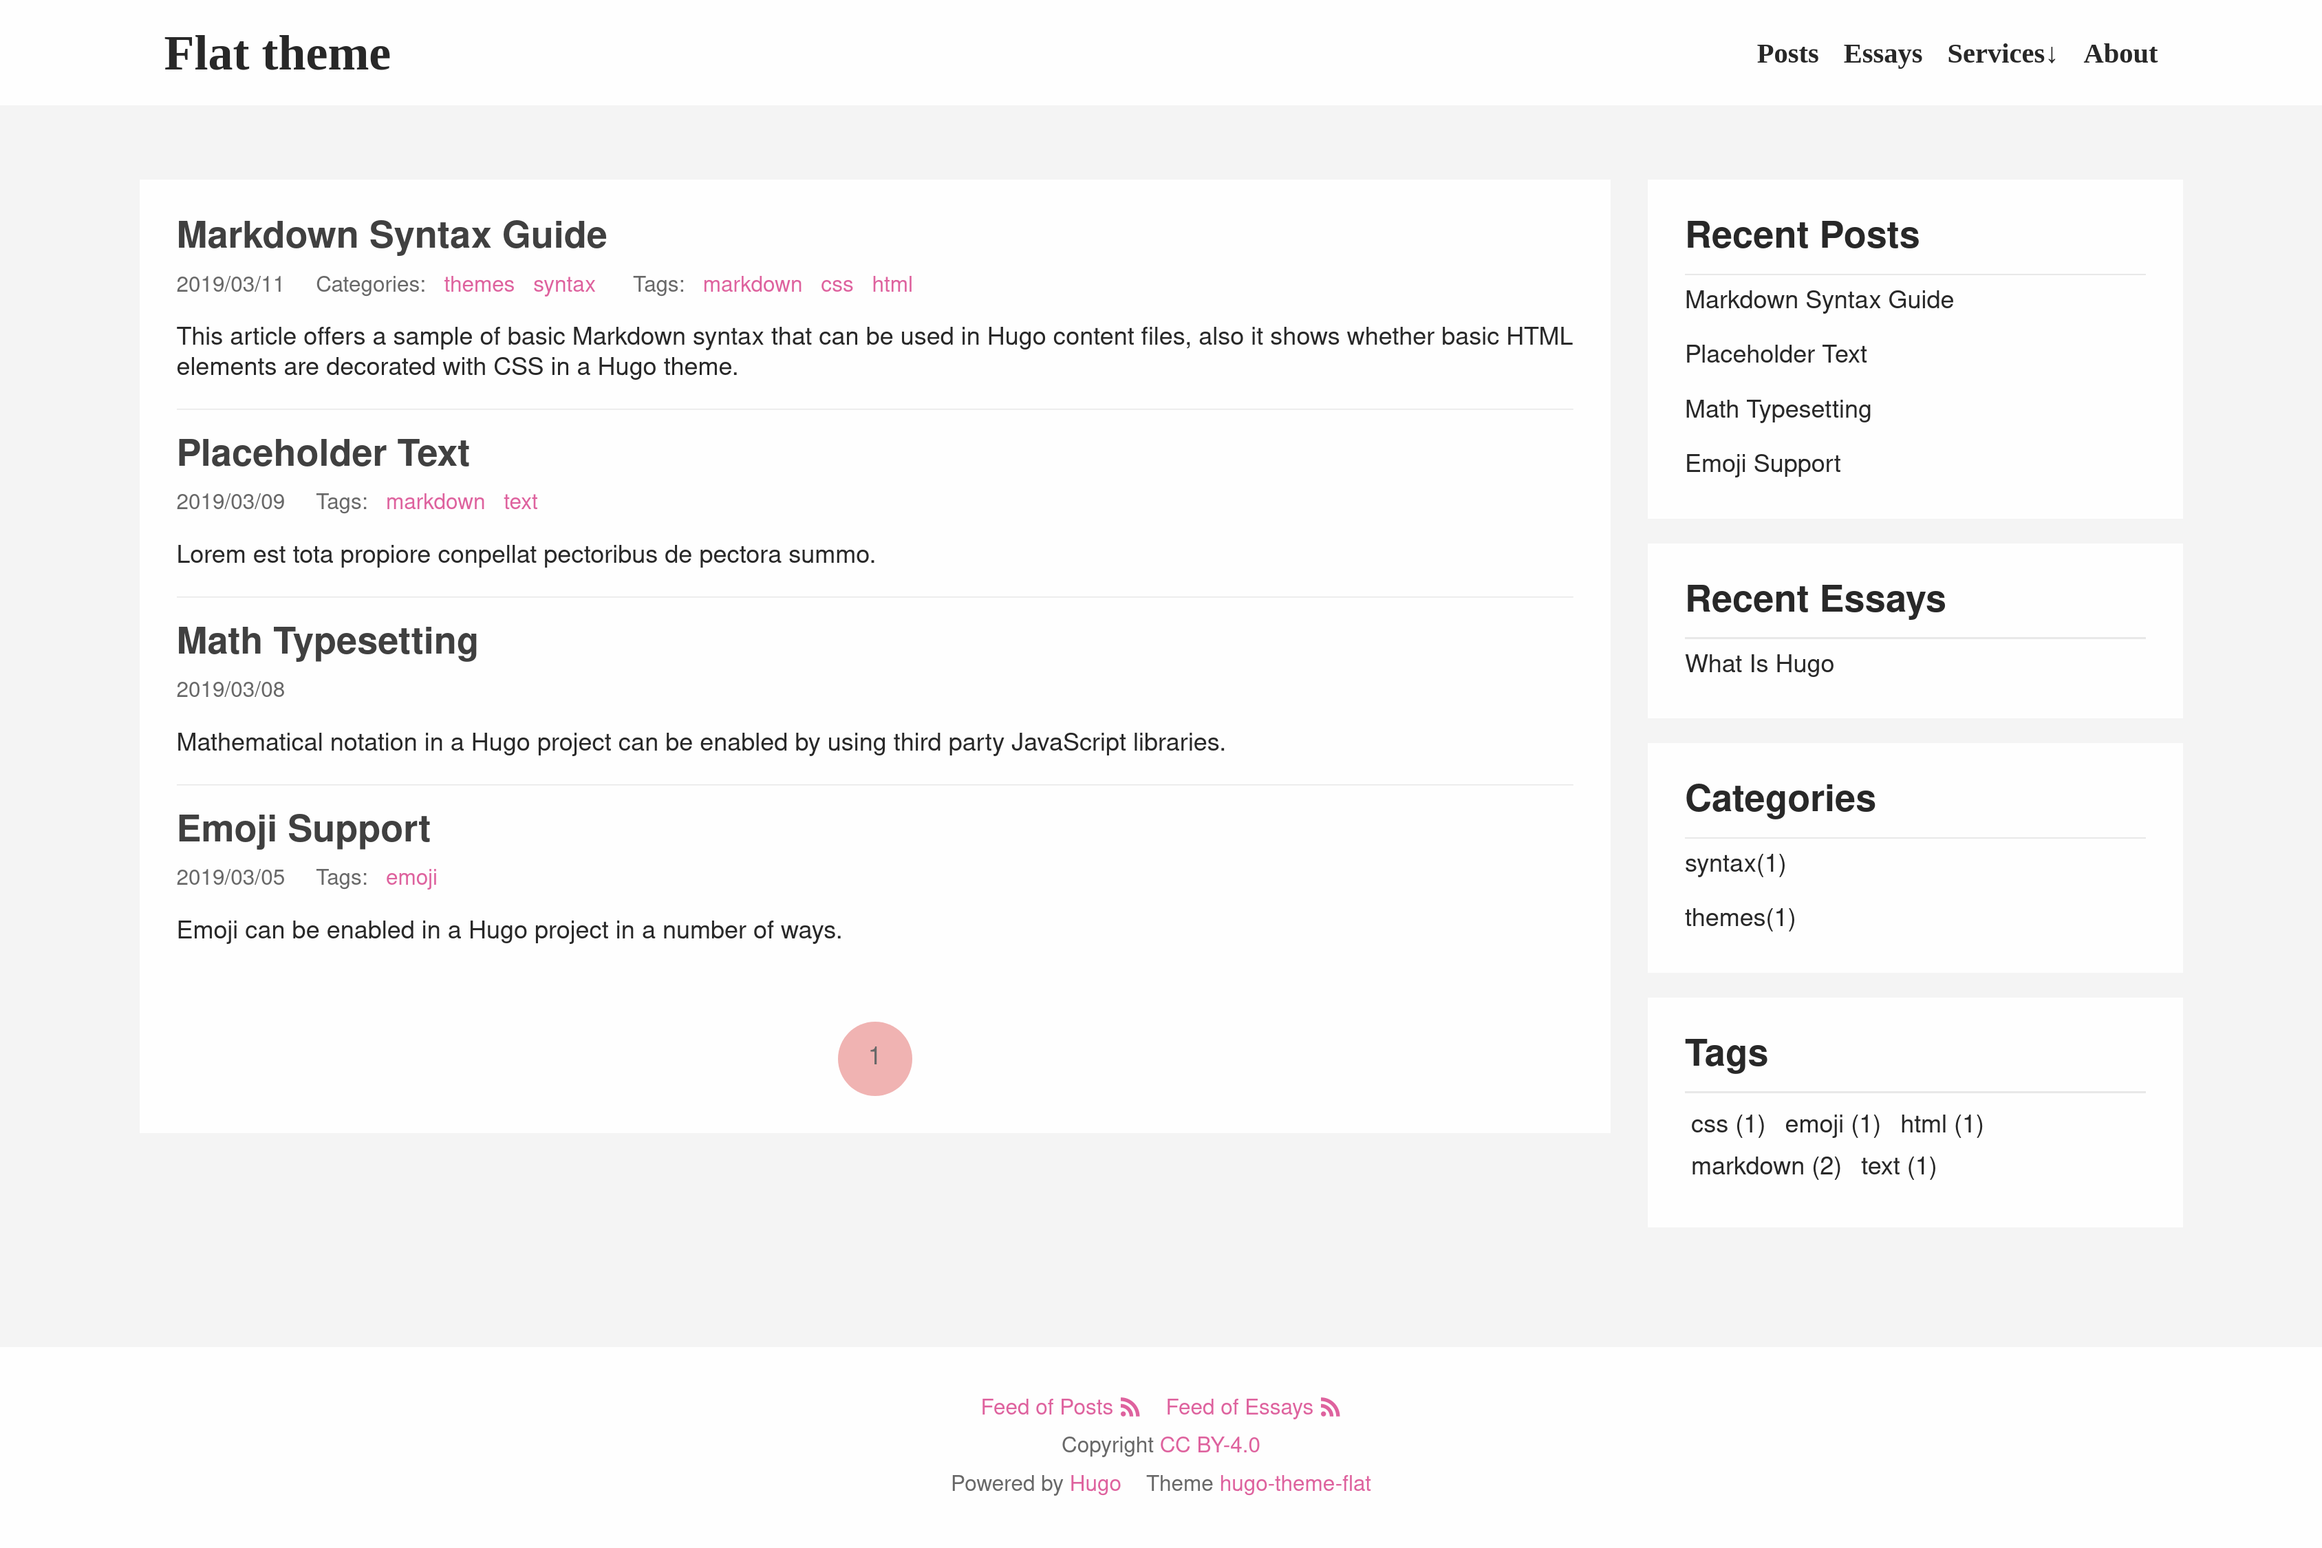
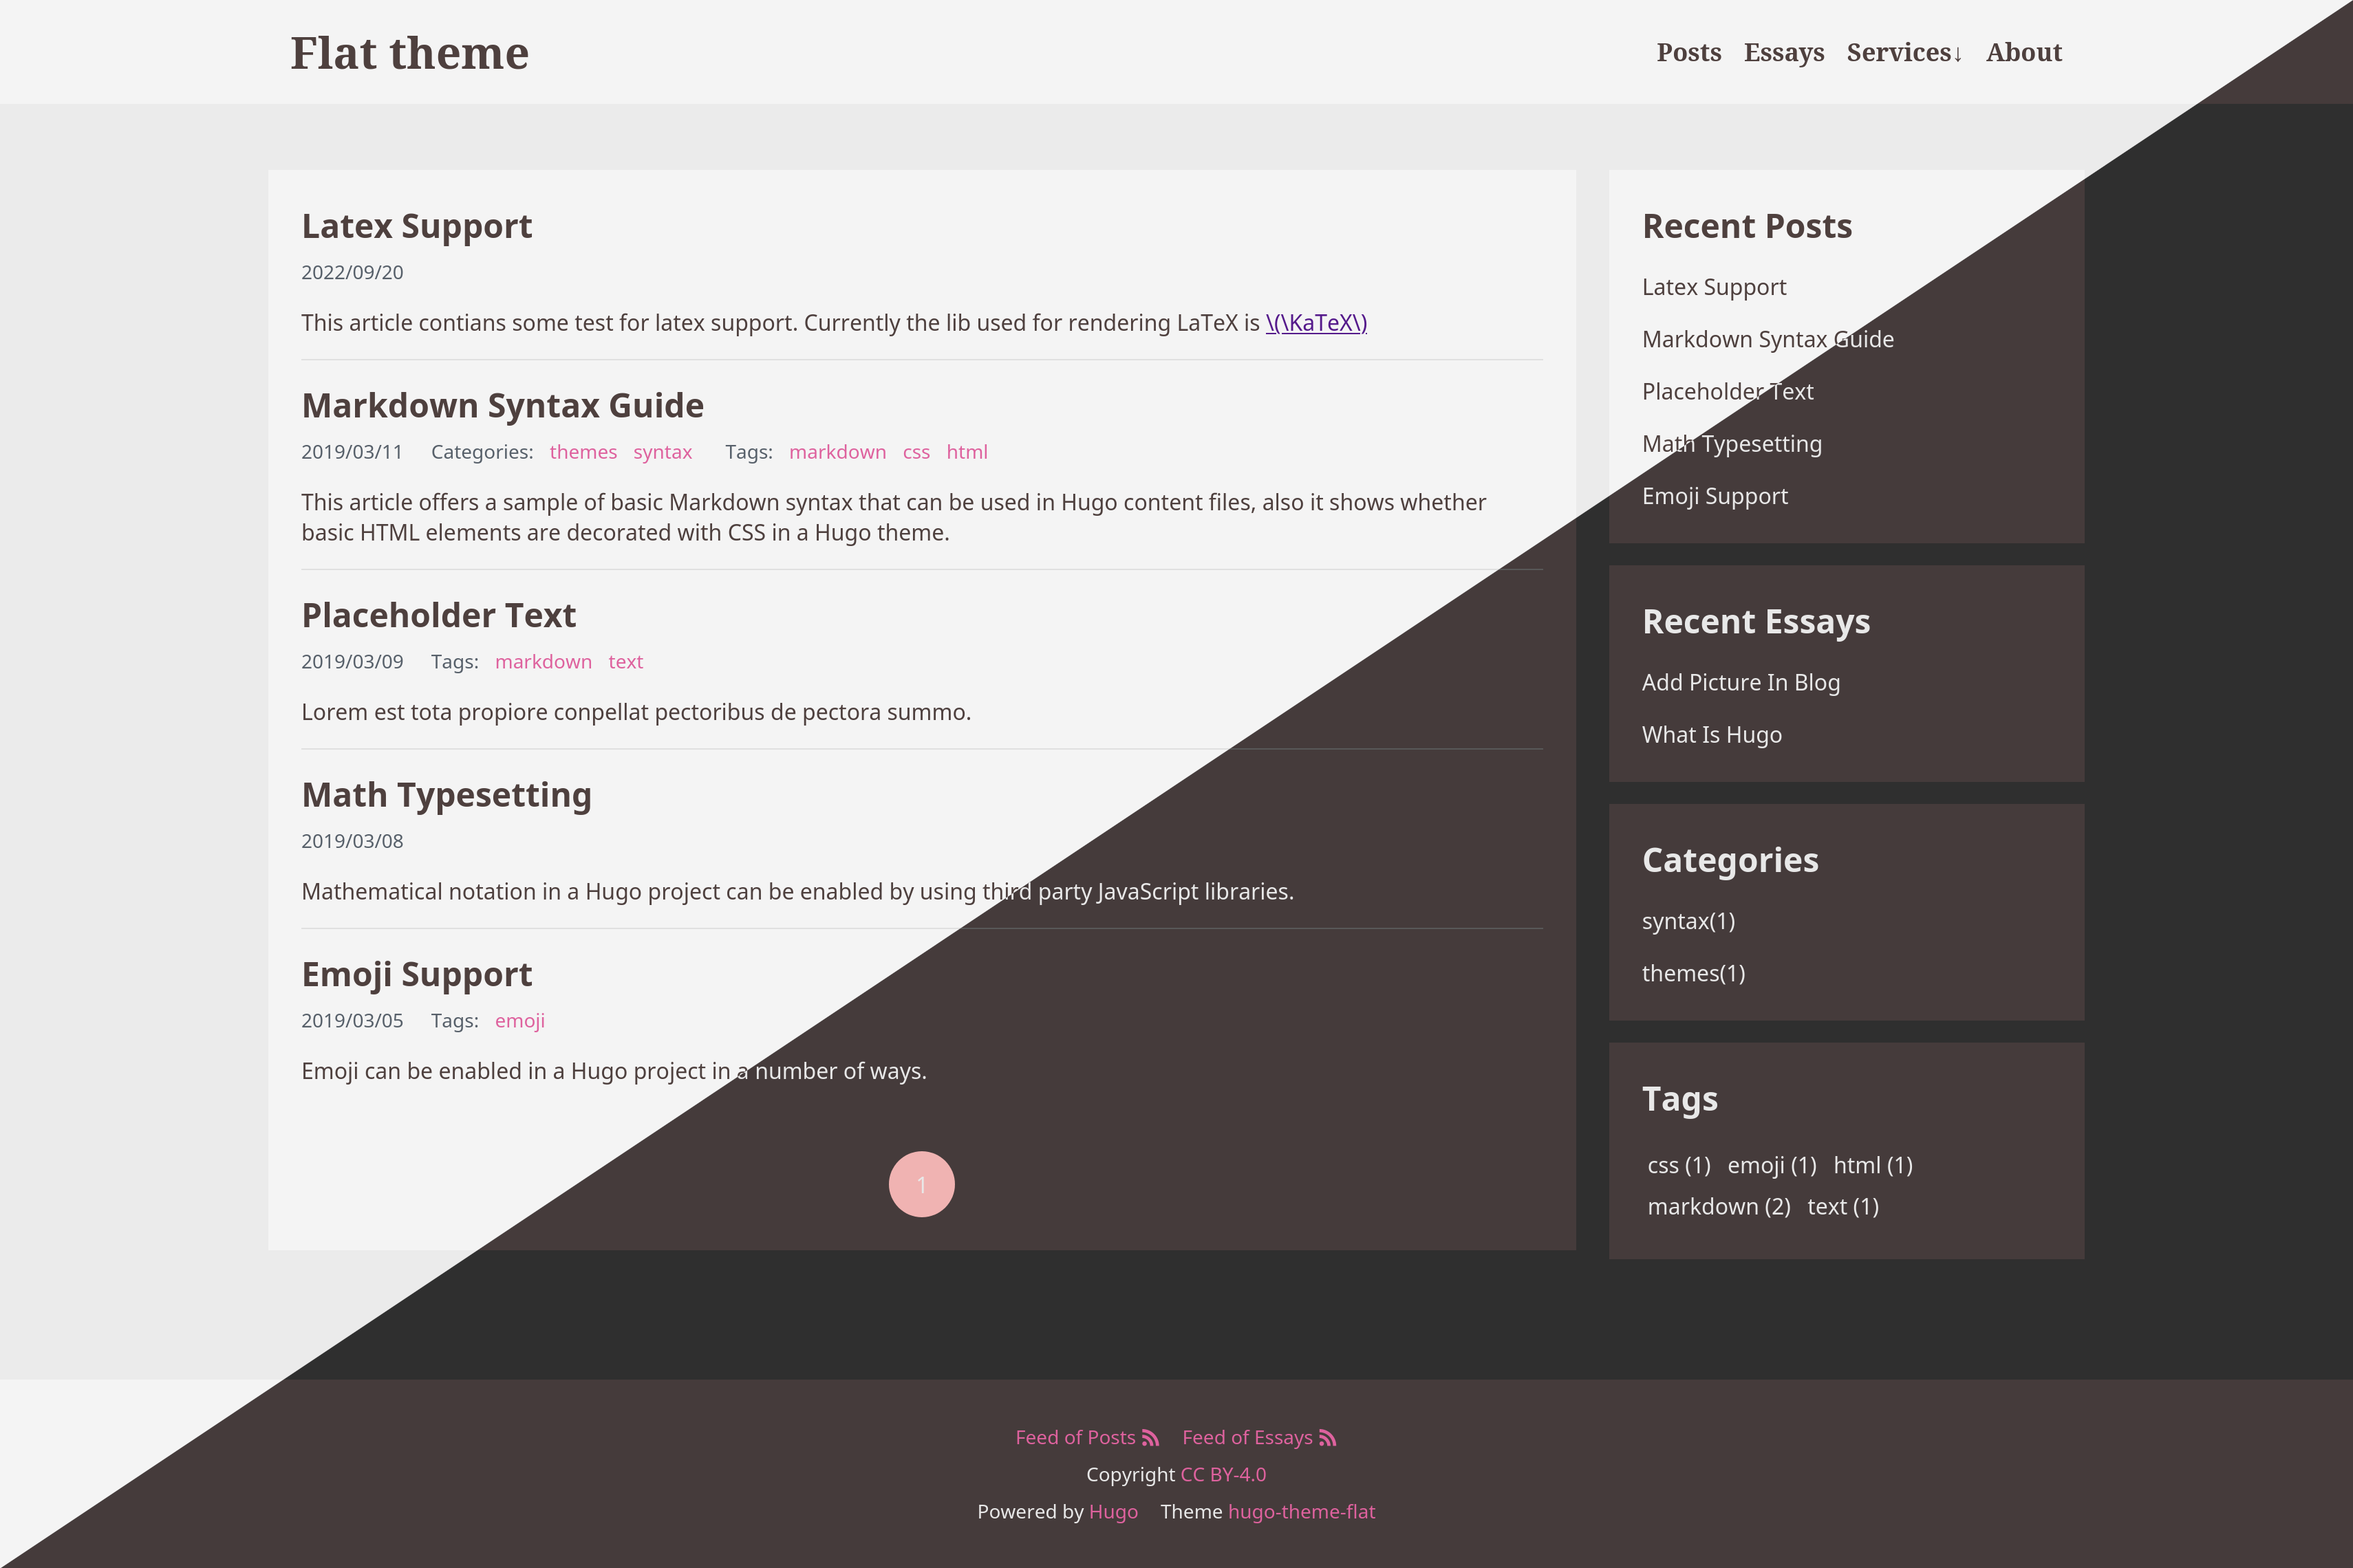
update READEME and images

diff --git a/README.md b/README.md
@@ -2,6 +2,12 @@
 
 This is a theme I personally use.
 
+## Features
+
+- Dark theme support (auto switch by css media query)
+- Muti-Section supports
+- Side card to display recent updated sections
+
 ## Multi Section Supports
 
 If you use multi sections (with the concept from hugo), the RSS at bottom and *Recent* at side are ready for displaying those content. However, you will need to set up your menu at `config.toml` to point the hyperlink to proper destination.
